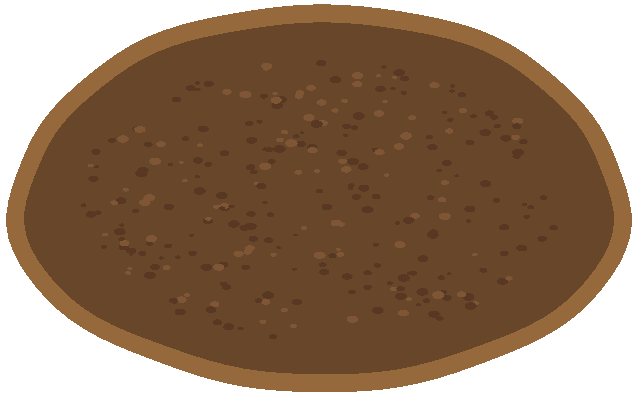
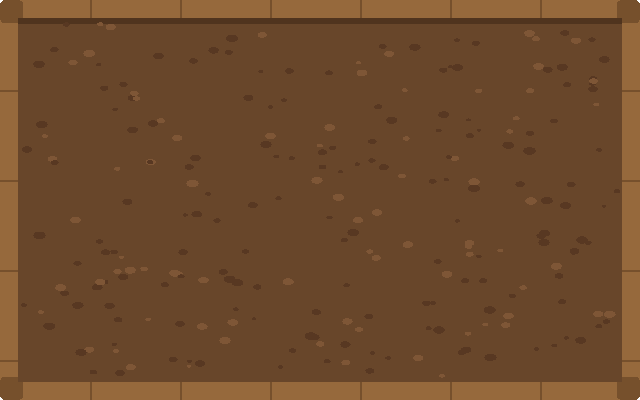
Make the vegetable patch a rectangle
The garden bed is now a rectangular raised bed (wooden frame filled with
soil) instead of an oval. Vegetables are still scattered naturally inside
it rather than in a grid, with the same spacing rules and regrow-to-a-new-
spot behaviour.

- Scatter plant spots inside a rectangle and size the bed around them
- Draw the built-in bed as a framed rectangle with plank seams and corner posts
- Update the farm/bed art description and template

Claude-Session: https://claude.ai/code/session_01UjaALBaFkcbZcx9oJF5yjg

diff --git a/src/Farm.cpp b/src/Farm.cpp
@@ -14,21 +14,23 @@ constexpr float kBedCenterY = 398.f;
 constexpr float kMaxBedRX = 590.f;     // the bed never gets wider than 2 x this...
 constexpr float kMaxBedRY = 296.f;     // ...or taller than 2 x this
 constexpr float kMaxPlantPx = 72.f;    // plants never get bigger than this
-constexpr float kBedAspect = 1.6f;     // the bed is an oval 1.6 times wider than tall
+constexpr float kBedAspect = 1.6f;     // the bed is a rectangle 1.6 times wider than tall
 constexpr float kSpreadGap = 1.0f;     // normally plants don't overlap at all...
 constexpr float kMinGap = 0.9f;        // ...and never by more than 10% (centres 0.9 plant-widths apart)
 constexpr float kBedMargin = 0.2f;    // soil around the outermost plants, in plant-widths
 
-// Scatters points inside an ellipse so no two are closer than minDist
-// (Bridson's Poisson-disc sampling). Looks natural, never clumps.
-std::vector<SDL_FPoint> scatterInEllipse(float rx, float ry, float minDist, std::mt19937& g) {
+// Scatters points inside a rectangle (half-width hw, half-height hh) so no
+// two are closer than minDist (Bridson's Poisson-disc sampling). Looks
+// natural rather than grid-like, and never clumps.
+std::vector<SDL_FPoint> scatterInRect(float hw, float hh, float minDist, std::mt19937& g) {
+    const float rx = hw, ry = hh;
     std::uniform_real_distribution<float> u(0.f, 1.f);
     const float cell = minDist / std::sqrt(2.f);
     const int gw = static_cast<int>(std::ceil(2.f * rx / cell)) + 1;
     const int gh = static_cast<int>(std::ceil(2.f * ry / cell)) + 1;
     std::vector<int> grid(static_cast<size_t>(gw) * gh, -1);
     std::vector<SDL_FPoint> pts, active;
-    auto inside = [&](float x, float y) { return (x * x) / (rx * rx) + (y * y) / (ry * ry) <= 1.f; };
+    auto inside = [&](float x, float y) { return std::fabs(x) <= rx && std::fabs(y) <= ry; };
     auto cellOf = [&](float x, float y) {
         return std::pair<int, int>{static_cast<int>((x + rx) / cell), static_cast<int>((y + ry) / cell)};
     };
@@ -88,19 +90,6 @@ const SDL_Color kOrange{240, 130, 30, 255};
 const SDL_Color kOrangeDark{200, 95, 20, 255};
 const SDL_Color kPumpkin{235, 120, 25, 255};
 const SDL_Color kPumpkinDark{190, 85, 15, 255};
-// Outline of the garden bed: an oval with a gently wobbly edge, inside rc.
-std::vector<SDL_FPoint> bedOutline(const SDL_FRect& rc, Uint32 seed, float shrink, float dx = 0.f, float dy = 0.f) {
-    float cx = rc.x + rc.w * 0.5f + dx, cy = rc.y + rc.h * 0.5f + dy;
-    float a = static_cast<float>(seed % 628) / 100.f, b = static_cast<float>((seed / 628) % 628) / 100.f;
-    std::vector<SDL_FPoint> pts;
-    const int n = 96;
-    for (int i = 0; i < n; ++i) {
-        float t = 2.f * kPi * i / n;
-        float k = 0.97f + 0.015f * std::sin(3.f * t + a) + 0.01f * std::sin(5.f * t + b) + 0.004f * std::sin(11.f * t);
-        pts.push_back({cx + std::cos(t) * (rc.w * 0.5f * k - shrink), cy + std::sin(t) * (rc.h * 0.5f * k - shrink)});
-    }
-    return pts;
-}
 } // namespace
 
 const CropInfo& cropInfo(Crop c) { return kCrops[static_cast<int>(c)]; }
@@ -151,17 +140,17 @@ void Farm::plant(Uint32 seed) {
         float area = capacity * 1.1f * L.d * L.d * gap * gap;
         // Scatter a few times and keep the most compact layout.
         for (int tries = 0, found = 0; tries < 80 && found < 6; ++tries) {
-            float ry = std::sqrt(area / (kPi * kBedAspect)), rx = ry * kBedAspect;
-            std::vector<SDL_FPoint> cand = scatterInEllipse(rx, ry, L.d * gap, g);
+            float hh = std::sqrt(area / (4.f * kBedAspect)), hw = hh * kBedAspect;
+            std::vector<SDL_FPoint> cand = scatterInRect(hw, hh, L.d * gap, g);
             if (static_cast<int>(cand.size()) < capacity) {
                 area *= 1.06f; // not enough room yet - grow the bed a little
                 continue;
             }
             ++found;
-            // Keep the ones nearest the middle so the bed stays a tidy oval.
-            std::sort(cand.begin(), cand.end(), [rx, ry](const SDL_FPoint& a, const SDL_FPoint& b) {
-                return a.x * a.x / (rx * rx) + a.y * a.y / (ry * ry) < b.x * b.x / (rx * rx) + b.y * b.y / (ry * ry);
-            });
+            // Keep the ones nearest the middle so the planted area stays a tidy rectangle.
+            auto rectDist = [hw, hh](const SDL_FPoint& p) { return std::max(std::fabs(p.x) / hw, std::fabs(p.y) / hh); };
+            std::sort(cand.begin(), cand.end(),
+                      [&rectDist](const SDL_FPoint& a, const SDL_FPoint& b) { return rectDist(a) < rectDist(b); });
             cand.resize(capacity);
             // Centre the group, then size the bed around it.
             float minX = 1e9f, maxX = -1e9f, minY = 1e9f, maxY = -1e9f;
@@ -172,13 +161,12 @@ void Farm::plant(Uint32 seed) {
             float ox = (minX + maxX) * 0.5f, oy = (minY + maxY) * 0.5f;
             for (auto& p : cand) { p.x -= ox; p.y -= oy; }
             float edge = L.d * (0.5f + kBedMargin);
-            // Smallest oval of the right shape that holds every plant with some soil around it.
-            float need = 0.f;
+            // Smallest rectangle of the right shape that holds every plant with some soil around it.
+            float need = 0.f; // half-width
             for (const auto& p : cand) {
-                float ex = std::fabs(p.x) + edge, ey = std::fabs(p.y) + edge;
-                need = std::max(need, std::sqrt(ex * ex + ey * ey * kBedAspect * kBedAspect));
+                need = std::max({need, std::fabs(p.x) + edge, (std::fabs(p.y) + edge) * kBedAspect});
             }
-            need /= 0.91f; // room for the bed's wobbly edge and rim
+            need /= 0.93f; // room for the bed's rim
             if (need < bedRX) {
                 bedRX = need;
                 L.pts = cand;
@@ -514,24 +502,38 @@ void Farm::drawSoilBuiltin(SDL_Renderer* r, const SDL_FRect& rc, bool hovered) {
     draw::fillEllipse(r, cx, cy, rc.w * 0.40f, rc.h * 0.14f, hovered ? kSoilHover : kSoil);
 }
 
-// The garden bed: a lumpy oval of dark soil with a lighter rim.
+// The garden bed: a rectangular raised bed - a wooden frame filled with soil.
 void Farm::drawBedBuiltin(SDL_Renderer* r, const SDL_FRect& rc, Uint32 seed) {
-    float cx = rc.x + rc.w * 0.5f, cy = rc.y + rc.h * 0.5f;
-    auto outline = [&](float shrink) { return bedOutline(rc, seed, shrink); };
+    const SDL_Color wood{150, 105, 60, 255}, woodDark{118, 80, 44, 255}, soil{104, 70, 42, 255};
     float rim = std::max(6.f, std::min(rc.w, rc.h) * 0.045f);
-    draw::fillPolygon(r, cx, cy, outline(0.f), SDL_Color{150, 105, 60, 255});
-    draw::fillPolygon(r, cx, cy, outline(rim), SDL_Color{104, 70, 42, 255});
+    // Frame, with plank seams and corner posts.
+    draw::fillRoundRect(r, rc.x, rc.y, rc.w, rc.h, rim * 0.6f, wood);
+    float plank = std::max(rim * 5.f, 60.f);
+    for (float x = rc.x + plank; x < rc.x + rc.w - rim; x += plank) {
+        draw::fillRect(r, x, rc.y, 2.f, rim, woodDark);
+        draw::fillRect(r, x, rc.y + rc.h - rim, 2.f, rim, woodDark);
+    }
+    for (float y = rc.y + plank; y < rc.y + rc.h - rim; y += plank) {
+        draw::fillRect(r, rc.x, y, rim, 2.f, woodDark);
+        draw::fillRect(r, rc.x + rc.w - rim, y, rim, 2.f, woodDark);
+    }
+    for (float cx : {rc.x, rc.x + rc.w - rim * 1.3f})
+        for (float cy : {rc.y, rc.y + rc.h - rim * 1.3f})
+            draw::fillRoundRect(r, cx, cy, rim * 1.3f, rim * 1.3f, rim * 0.3f, woodDark);
+    // Soil.
+    SDL_FRect in{rc.x + rim, rc.y + rim, rc.w - rim * 2.f, rc.h - rim * 2.f};
+    draw::fillRect(r, in.x, in.y, in.w, in.h, soil);
+    draw::fillRect(r, in.x, in.y, in.w, std::max(2.f, rim * 0.35f), SDL_Color{80, 52, 30, 255}); // shadow under the top plank
     // A scattering of darker clods for texture.
     Uint32 g = seed * 2654435761u + 1u;
     auto rnd = [&g] {
         g = g * 1664525u + 1013904223u;
         return static_cast<float>(g >> 8) / static_cast<float>(1u << 24);
     };
-    int clods = static_cast<int>(rc.w * rc.h / 900.f);
+    int clods = static_cast<int>(in.w * in.h / 900.f);
     for (int i = 0; i < clods; ++i) {
-        float t = rnd() * 2.f * kPi, d = std::sqrt(rnd()) * 0.85f;
-        float x = cx + std::cos(t) * d * (rc.w * 0.5f - rim * 2), y = cy + std::sin(t) * d * (rc.h * 0.5f - rim * 2);
         float s = 1.5f + rnd() * 2.5f;
+        float x = in.x + s * 2.f + rnd() * (in.w - s * 4.f), y = in.y + s * 2.f + rnd() * (in.h - s * 4.f);
         draw::fillEllipse(r, x, y, s * 1.6f, s, i % 3 ? kSoilDark : SDL_Color{126, 86, 54, 255}, 10);
     }
 }
@@ -587,7 +589,7 @@ void Farm::render(SDL_Renderer* r) const {
     if (art::has("farm/bed")) {
         art::draw(r, "farm/bed", bed);
     } else {
-        draw::fillPolygon(r, bedX_ + 4.f, bedY_ + 8.f, bedOutline(bed, seed_, 0.f, 4.f, 8.f), SDL_Color{0, 0, 0, 55});
+        draw::fillRoundRect(r, bed.x + 4.f, bed.y + 8.f, bed.w, bed.h, 8.f, SDL_Color{0, 0, 0, 55}); // shadow
         drawBedBuiltin(r, bed, seed_);
     }
 

diff --git a/src/ArtCatalog.cpp b/src/ArtCatalog.cpp
@@ -117,8 +117,8 @@ void registerCatalog(const std::vector<std::pair<std::string, std::string>>& tec
     add({"farm/hud_bar", 1280, 72, "Strip along the top of the farm screen (title, timer, coins sit on it)", false,
          [](SDL_Renderer* r, const SDL_FRect& rc) { draw::fillRect(r, rc.x, rc.y, rc.w, rc.h, SDL_Color{20, 28, 18, 210}); }});
     add({"farm/bed", 640, 400,
-         "The garden bed the vegetables grow in. Stretched to fit, always 1.6x wider than tall. Plants sit inside the "
-         "middle ~85%, so leave a border of soil or edging around them",
+         "The rectangular garden bed the vegetables grow in. Stretched to fit, always 1.6x wider than tall. Plants "
+         "sit inside the middle ~90%, so leave a border of soil or edging around them",
          false, [](SDL_Renderer* r, const SDL_FRect& rc) { Farm::drawBedBuiltin(r, rc, 1234u); }});
     add({"farm/soil", 128, 128, "Mound of soil under each vegetable (sits in the lower part of the plant's square)", false,
          [](SDL_Renderer* r, const SDL_FRect& rc) { Farm::drawSoilBuiltin(r, rc, false); }});

diff --git a/include/Farm.h b/include/Farm.h
@@ -1,6 +1,6 @@
 // Farm.h - the garden bed and one day of picking.
 //
-// Vegetables are scattered naturally over an oval bed rather than in a grid.
+// Vegetables are scattered naturally over a rectangular bed (not in a grid).
 // Each plant takes up a circle; neighbours may overlap by at most 10% of a
 // plant's width. The number of plants is patchSize x patchSize (9 to 100).
 // The bed has about 25% more spots than plants; when a vegetable is picked,

diff --git a/art_templates/ART_LIST.md b/art_templates/ART_LIST.md
@@ -11,7 +11,7 @@ is brightened or darkened automatically.
 |---|---|---|---|
 | `farm/background.png` | 1280 x 720 |  | Everything behind the vegetable patch while farming |
 | `farm/hud_bar.png` | 1280 x 72 |  | Strip along the top of the farm screen (title, timer, coins sit on it) |
-| `farm/bed.png` | 640 x 400 |  | The garden bed the vegetables grow in. Stretched to fit, always 1.6x wider than tall. Plants sit inside the middle ~85%, so leave a border of soil or edging around them |
+| `farm/bed.png` | 640 x 400 |  | The rectangular garden bed the vegetables grow in. Stretched to fit, always 1.6x wider than tall. Plants sit inside the middle ~90%, so leave a border of soil or edging around them |
 | `farm/soil.png` | 128 x 128 |  | Mound of soil under each vegetable (sits in the lower part of the plant's square) |
 | `farm/soil_hover.png` | 128 x 128 |  | Mound under the plant the pointer is on (optional) |
 | `crops/lettuce.png` | 128 x 128 |  | Ripe Lettuce, filling the square one plant takes up (neighbours may overlap it by up to 10%) |
